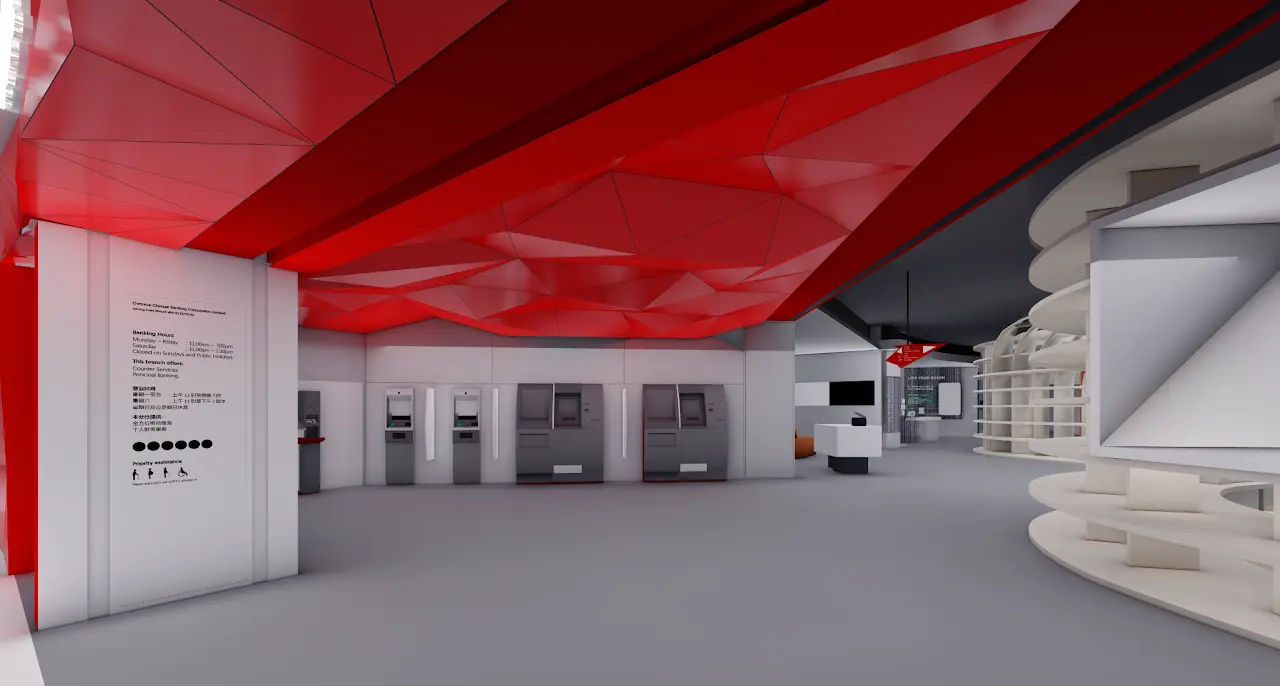
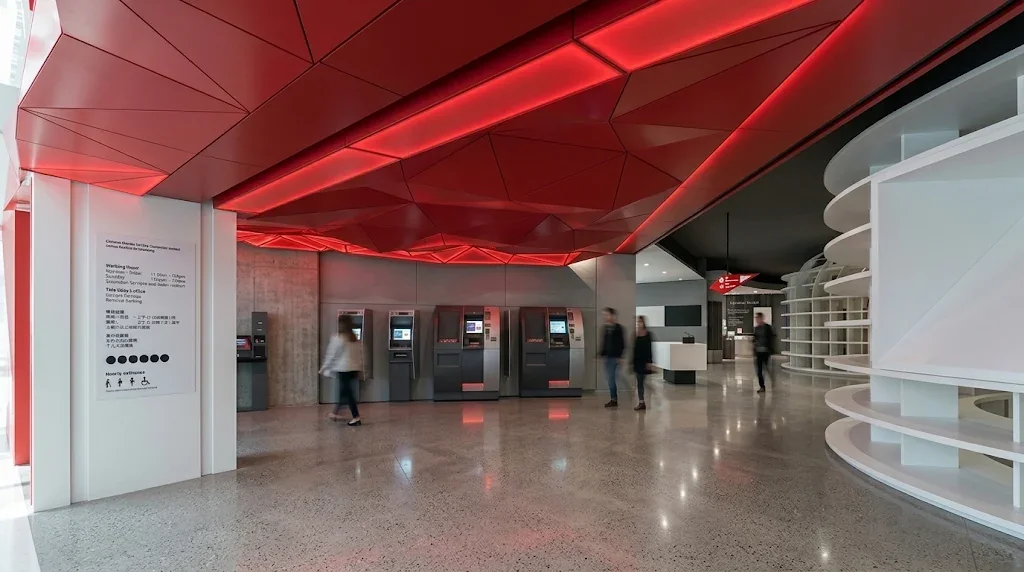
OCBC: replace the two Rhino renders with photos
Claude-Session: https://claude.ai/code/session_019TErydGx2nWfTHBP2DFEHp

diff --git a/projects/architectural-design/ocbc-faceted-ceiling/index.html b/projects/architectural-design/ocbc-faceted-ceiling/index.html
@@ -31,7 +31,7 @@
 <div class="txt"><p>The OCBC Lifestyle Banking Center opened in Wisma Atria shopping mall in 2022, in the heart of Singapore’s Orchard Road shopping belt. OCBC seeks to redefine banking by connecting with its customers even as digital banking continues to grow.</p><p>In Superstructure, I was tasked to create the shopfront and ATM area ceiling for this flagship branch. Following OCBC’s branding and design guides, we decided to echo the triangulated features into the physical world by creating an undulating triangular faceted wall and ceiling feature that flowed throughout the shopfront and into the shop itself.</p><p>To meet the client&#x27;s demands, the surface was computationally generated using a multi optimisation solver in grasshopper rhino. The panels were then custom plasma cut indiviudually, then the tabs were machine bent to specific angles determined from the grasshopper script, and then brought on site and bolted together, which achieved the undulating effect.</p></div>
 </section>
 
-<section class="gallery"><figure class="g wide"><img src="../../../assets/img/ocbc-faceted-ceiling/01.webp" alt="OCBC Faceted Ceiling, image 2" width="1280" height="831" loading="lazy" data-full="../../../assets/img/ocbc-faceted-ceiling/01.webp"></figure><figure class="g wide"><img src="../../../assets/img/ocbc-faceted-ceiling/02.webp" alt="OCBC Faceted Ceiling, image 3" width="1280" height="831" loading="lazy" data-full="../../../assets/img/ocbc-faceted-ceiling/02.webp"></figure><figure class="g"><img src="../../../assets/img/ocbc-faceted-ceiling/03.webp" alt="OCBC Faceted Ceiling, image 4" width="934" height="1280" loading="lazy" data-full="../../../assets/img/ocbc-faceted-ceiling/03.webp"></figure><figure class="g"><img src="../../../assets/img/ocbc-faceted-ceiling/04.webp" alt="OCBC Faceted Ceiling, image 5" width="720" height="987" loading="lazy" data-full="../../../assets/img/ocbc-faceted-ceiling/04.webp"></figure><figure class="g wide"><img src="../../../assets/img/ocbc-faceted-ceiling/05.webp" alt="OCBC Faceted Ceiling, image 6" width="899" height="582" loading="lazy" data-full="../../../assets/img/ocbc-faceted-ceiling/05.webp"></figure><figure class="g wide"><img src="../../../assets/img/ocbc-faceted-ceiling/06.webp" alt="OCBC Faceted Ceiling, image 7" width="1280" height="686" loading="lazy" data-full="../../../assets/img/ocbc-faceted-ceiling/06.webp"></figure><figure class="g wide"><img src="../../../assets/img/ocbc-faceted-ceiling/07.webp" alt="OCBC Faceted Ceiling, image 8" width="1280" height="519" loading="lazy" data-full="../../../assets/img/ocbc-faceted-ceiling/07.webp"></figure></section>
+<section class="gallery"><figure class="g wide"><img src="../../../assets/img/ocbc-faceted-ceiling/01.webp" alt="OCBC Faceted Ceiling, image 2" width="1280" height="831" loading="lazy" data-full="../../../assets/img/ocbc-faceted-ceiling/01.webp"></figure><figure class="g wide"><img src="../../../assets/img/ocbc-faceted-ceiling/02.webp" alt="OCBC Faceted Ceiling, image 3" width="1024" height="687" loading="lazy" data-full="../../../assets/img/ocbc-faceted-ceiling/02.webp"></figure><figure class="g"><img src="../../../assets/img/ocbc-faceted-ceiling/03.webp" alt="OCBC Faceted Ceiling, image 4" width="934" height="1280" loading="lazy" data-full="../../../assets/img/ocbc-faceted-ceiling/03.webp"></figure><figure class="g"><img src="../../../assets/img/ocbc-faceted-ceiling/04.webp" alt="OCBC Faceted Ceiling, image 5" width="720" height="987" loading="lazy" data-full="../../../assets/img/ocbc-faceted-ceiling/04.webp"></figure><figure class="g wide"><img src="../../../assets/img/ocbc-faceted-ceiling/05.webp" alt="OCBC Faceted Ceiling, image 6" width="899" height="582" loading="lazy" data-full="../../../assets/img/ocbc-faceted-ceiling/05.webp"></figure><figure class="g wide"><img src="../../../assets/img/ocbc-faceted-ceiling/06.webp" alt="OCBC Faceted Ceiling, image 7" width="1024" height="572" loading="lazy" data-full="../../../assets/img/ocbc-faceted-ceiling/06.webp"></figure><figure class="g wide"><img src="../../../assets/img/ocbc-faceted-ceiling/07.webp" alt="OCBC Faceted Ceiling, image 8" width="1280" height="519" loading="lazy" data-full="../../../assets/img/ocbc-faceted-ceiling/07.webp"></figure></section>
 <nav class="pn" aria-label="More projects">
 <a href="../../../projects/research/responsive-facade/index.html"><span class="sub">previous</span>Responsive Facade</a>
 <a class="nx" href="../../../projects/research/db-schenker-chandelier/index.html"><span class="sub">next</span>DB Schenker Chandelier</a>
